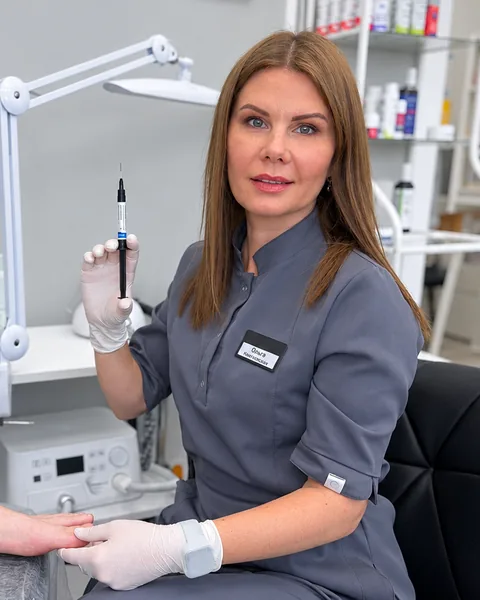
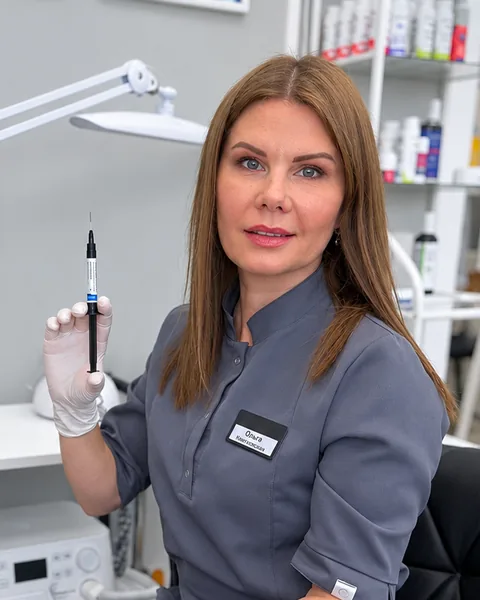
ПодоСтудия OK: фото Ольги в «Мастерах» обрезано выше нижней руки
Ног клиентки в кадре нет совсем: Ольга от головы до пояса, с инструментом и бейджем.

diff --git a/concepts/podostudiya-ok/index.html b/concepts/podostudiya-ok/index.html
@@ -416,7 +416,7 @@
     <div class="wrap">
       <h2 id="team-title" class="reveal">Мастера</h2>
       <article class="lead-master reveal">
-        <img src="assets/img/olga-master-696.webp" srcset="assets/img/olga-master-480.webp 480w, assets/img/olga-master-696.webp 696w" sizes="(min-width: 900px) 40vw, 92vw" width="696" height="870" alt="Ольга Кветковская в кабинете подологии с инструментом в руке" loading="lazy">
+        <img src="assets/img/olga-master-696.webp?v=2" srcset="assets/img/olga-master-480.webp?v=2 480w, assets/img/olga-master-696.webp?v=2 696w" sizes="(min-width: 900px) 40vw, 92vw" width="696" height="870" alt="Ольга Кветковская в кабинете подологии с инструментом в руке" loading="lazy">
         <div class="lead-master-text">
           <h3>Ольга Кветковская</h3>
           <p class="role">Руководитель студии, ведущий подолог</p>
